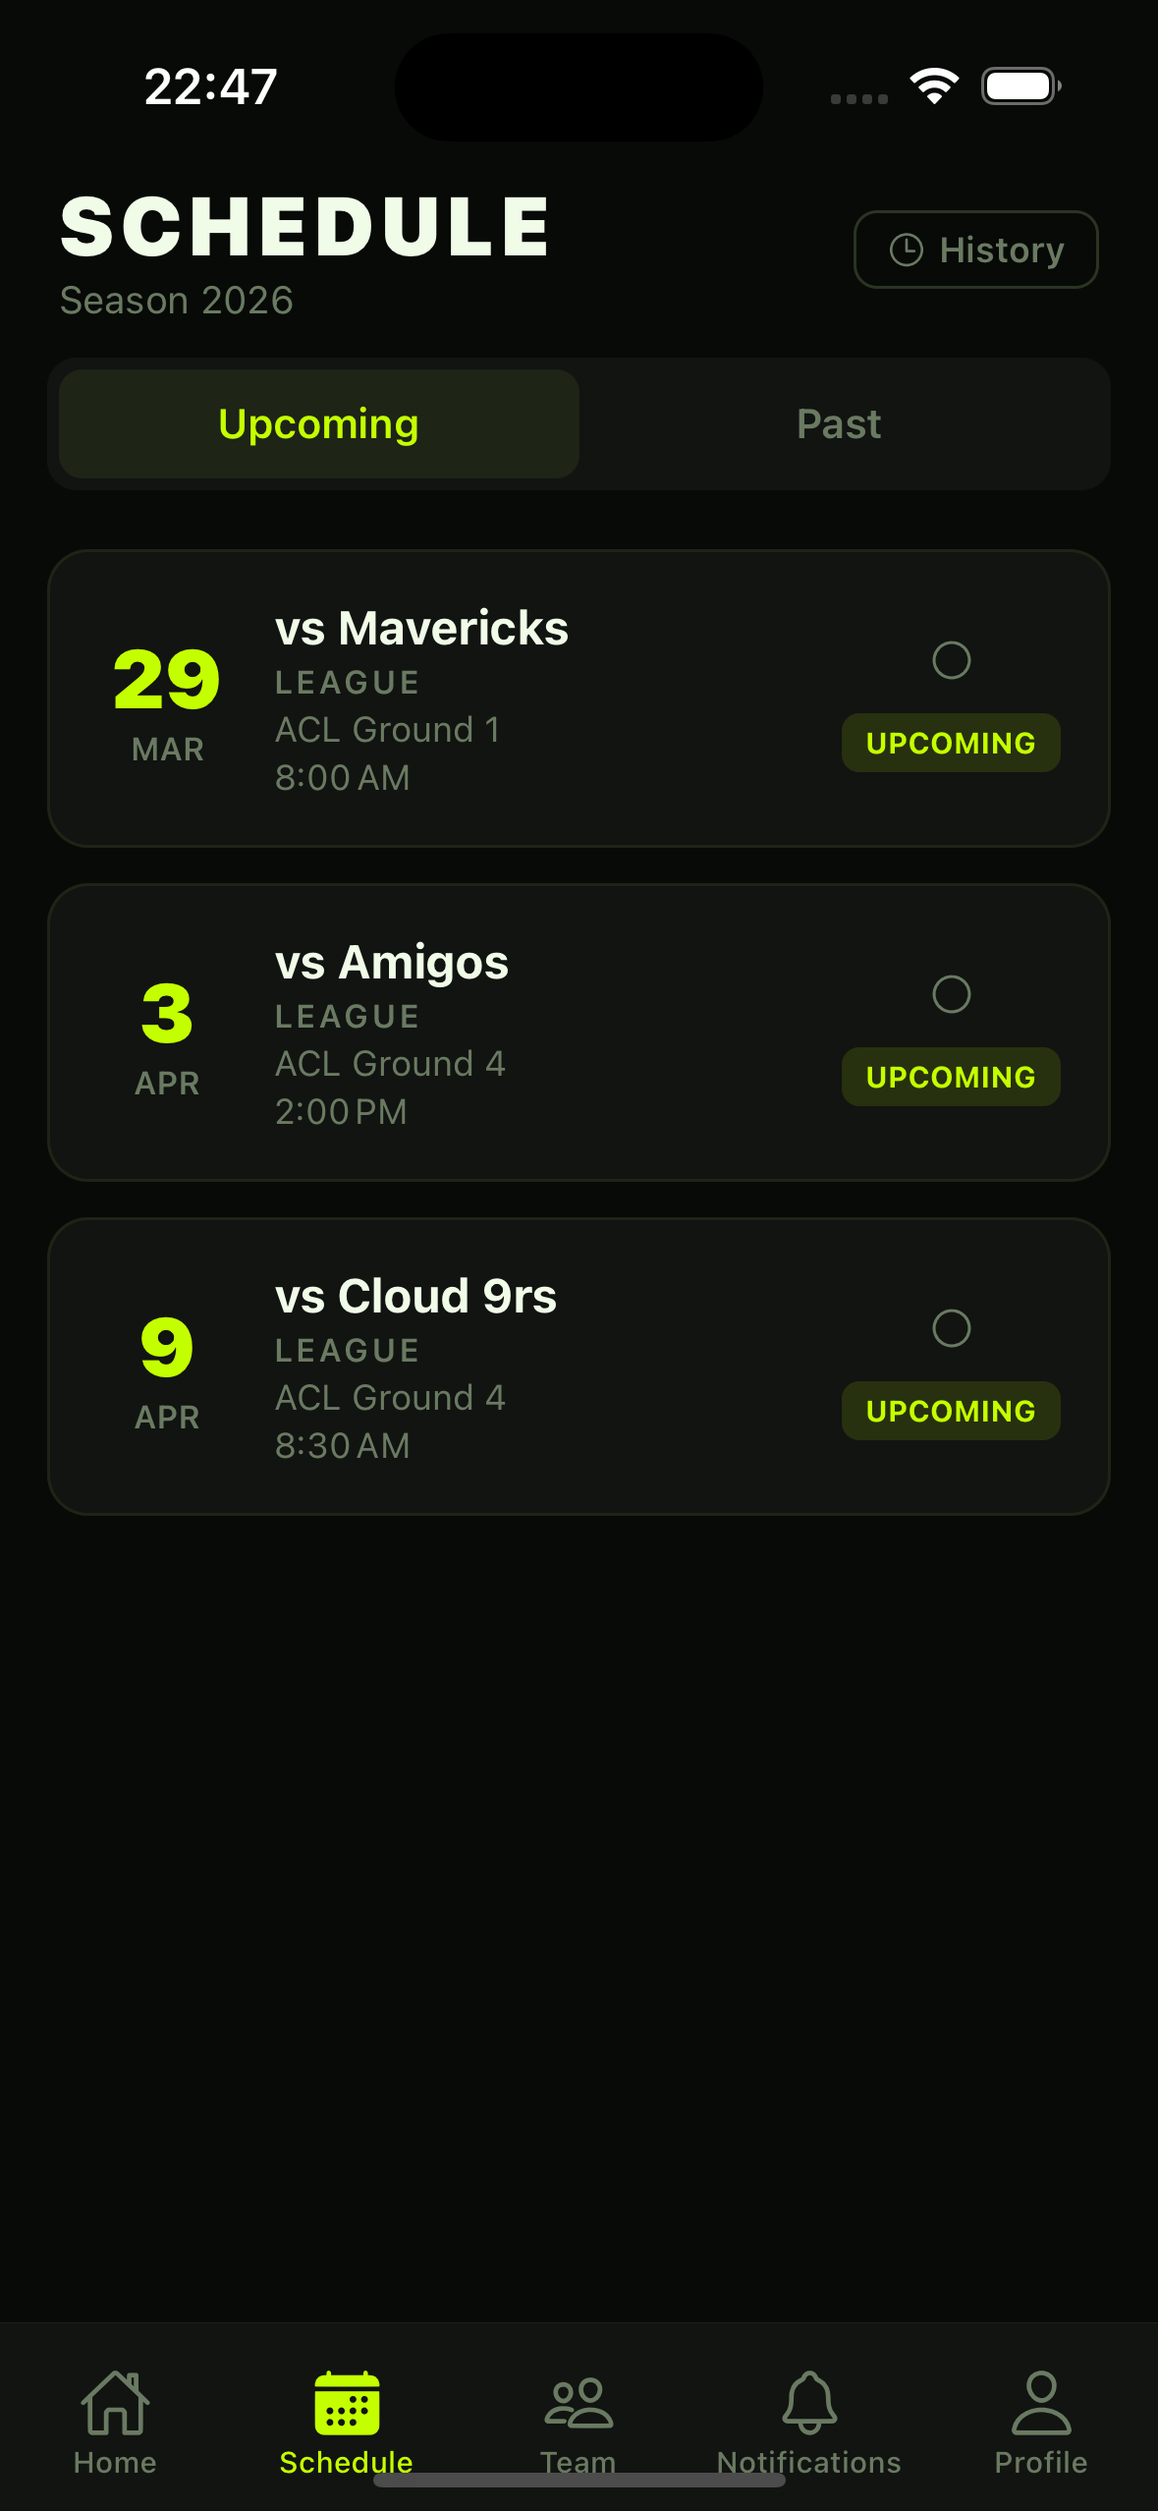
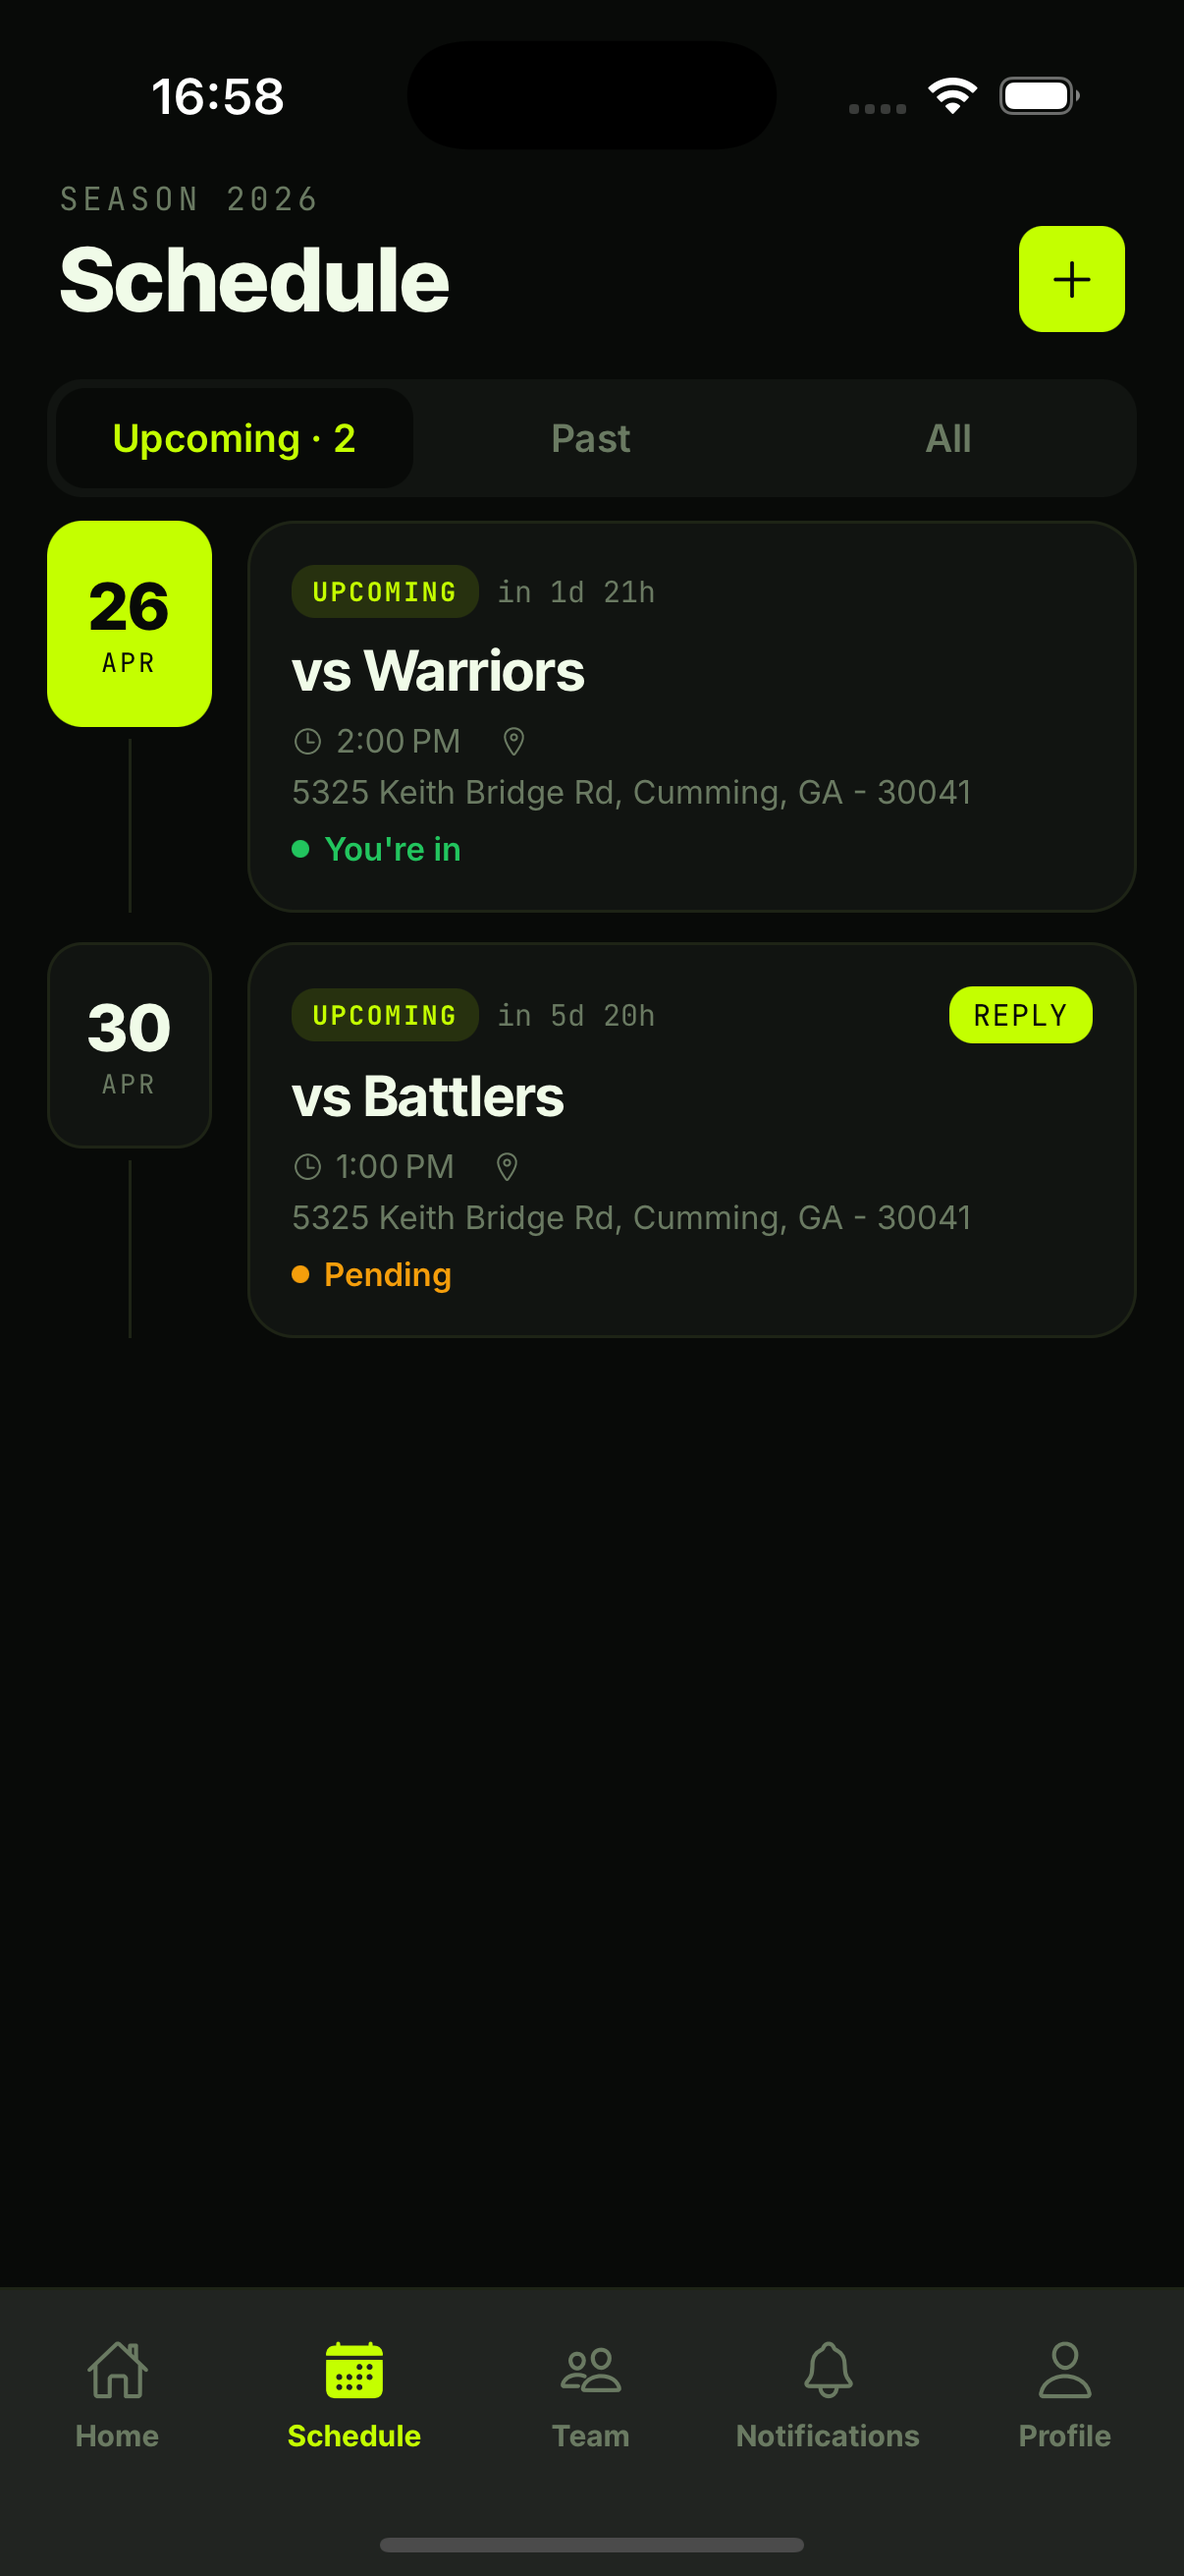
feat: update app screenshots to new redesign
Replaces old screenshots with new dark-theme redesigned screens.
Carousel expanded from 5 to 8 slides (splash → sign in → schedule →
match day → lineup → match detail → team roster → player stats) and
fixed desktop sliding with translateX so slides actually move.

diff --git a/index.html b/index.html
@@ -375,8 +375,9 @@
   .carousel-wrap{position:relative;max-width:1180px;margin:0 auto;padding:0 24px}
   .carousel-container{overflow:hidden;padding:20px 0}
   .carousel-track{
-    display:flex;gap:24px;justify-content:center;align-items:center;
+    display:flex;gap:24px;justify-content:flex-start;align-items:center;
     transition:transform .6s cubic-bezier(.22,1,.36,1);
+    padding:0 calc(50% - 110px);
   }
   .c-slide{
     flex:0 0 220px;display:flex;flex-direction:column;align-items:center;
@@ -643,7 +644,7 @@
 
         <div class="phone phone-float">
           <div class="phone-island"></div>
-          <img src="screenshots/home.png" alt="All Hands app dashboard" />
+          <img src="screenshots/match.png" alt="All Hands match day view" />
         </div>
       </div>
     </div>
@@ -828,11 +829,14 @@
       </button>
       <div class="carousel-container">
         <div class="carousel-track" id="carouselTrack">
-          <div class="c-slide" data-index="0"><div class="c-phone"><div class="c-island"></div><img src="screenshots/login.png" alt="Sign in"/></div><span class="c-label">Sign in</span></div>
-          <div class="c-slide" data-index="1"><div class="c-phone"><div class="c-island"></div><img src="screenshots/signup.png" alt="Create account"/></div><span class="c-label">Create account</span></div>
-          <div class="c-slide active" data-index="2"><div class="c-phone"><div class="c-island"></div><img src="screenshots/home.png" alt="Dashboard"/></div><span class="c-label">Dashboard</span></div>
-          <div class="c-slide" data-index="3"><div class="c-phone"><div class="c-island"></div><img src="screenshots/schedule.png" alt="Schedule"/></div><span class="c-label">Schedule</span></div>
-          <div class="c-slide" data-index="4"><div class="c-phone"><div class="c-island"></div><img src="screenshots/profile.png" alt="Profile"/></div><span class="c-label">Profile</span></div>
+          <div class="c-slide" data-index="0"><div class="c-phone"><div class="c-island"></div><img src="screenshots/splash.png" alt="All Hands landing"/></div><span class="c-label">Get started</span></div>
+          <div class="c-slide" data-index="1"><div class="c-phone"><div class="c-island"></div><img src="screenshots/signin.png" alt="Sign in"/></div><span class="c-label">Sign in</span></div>
+          <div class="c-slide" data-index="2"><div class="c-phone"><div class="c-island"></div><img src="screenshots/schedule.png" alt="Schedule"/></div><span class="c-label">Schedule</span></div>
+          <div class="c-slide active" data-index="3"><div class="c-phone"><div class="c-island"></div><img src="screenshots/match.png" alt="Match day"/></div><span class="c-label">Match day</span></div>
+          <div class="c-slide" data-index="4"><div class="c-phone"><div class="c-island"></div><img src="screenshots/lineup.png" alt="Squad lineup"/></div><span class="c-label">Pick the lineup</span></div>
+          <div class="c-slide" data-index="5"><div class="c-phone"><div class="c-island"></div><img src="screenshots/match-detail.png" alt="Match detail"/></div><span class="c-label">Match detail</span></div>
+          <div class="c-slide" data-index="6"><div class="c-phone"><div class="c-island"></div><img src="screenshots/team.png" alt="Team roster"/></div><span class="c-label">Team roster</span></div>
+          <div class="c-slide" data-index="7"><div class="c-phone"><div class="c-island"></div><img src="screenshots/player.png" alt="Player stats"/></div><span class="c-label">Player stats</span></div>
         </div>
       </div>
       <button class="c-btn c-next" aria-label="Next screenshot">
@@ -842,9 +846,12 @@
     <div class="c-dots" id="carouselDots">
       <button class="c-dot" data-index="0" aria-label="Go to slide 1"></button>
       <button class="c-dot" data-index="1" aria-label="Go to slide 2"></button>
-      <button class="c-dot active" data-index="2" aria-label="Go to slide 3"></button>
-      <button class="c-dot" data-index="3" aria-label="Go to slide 4"></button>
+      <button class="c-dot" data-index="2" aria-label="Go to slide 3"></button>
+      <button class="c-dot active" data-index="3" aria-label="Go to slide 4"></button>
       <button class="c-dot" data-index="4" aria-label="Go to slide 5"></button>
+      <button class="c-dot" data-index="5" aria-label="Go to slide 6"></button>
+      <button class="c-dot" data-index="6" aria-label="Go to slide 7"></button>
+      <button class="c-dot" data-index="7" aria-label="Go to slide 8"></button>
     </div>
   </section>
 
@@ -940,13 +947,16 @@
     const nextBtn=document.querySelector('.c-next');
     const trackC=document.querySelector('.carousel-container');
     const total=slides.length;
-    let idx=2,timer=null,paused=false;
+    let idx=3,timer=null,paused=false;
 
     function setActive(i){
       idx=((i%total)+total)%total;
       slides.forEach((s,j)=>s.classList.toggle('active',j===idx));
       dots.forEach((d,j)=>d.classList.toggle('active',j===idx));
-      if(window.innerWidth<=900){
+      if(window.innerWidth>900){
+        const stride=220+24;
+        document.getElementById('carouselTrack').style.transform=`translateX(${-idx*stride}px)`;
+      } else {
         const a=slides[idx];
         if(a){
           const cr=trackC.getBoundingClientRect();
